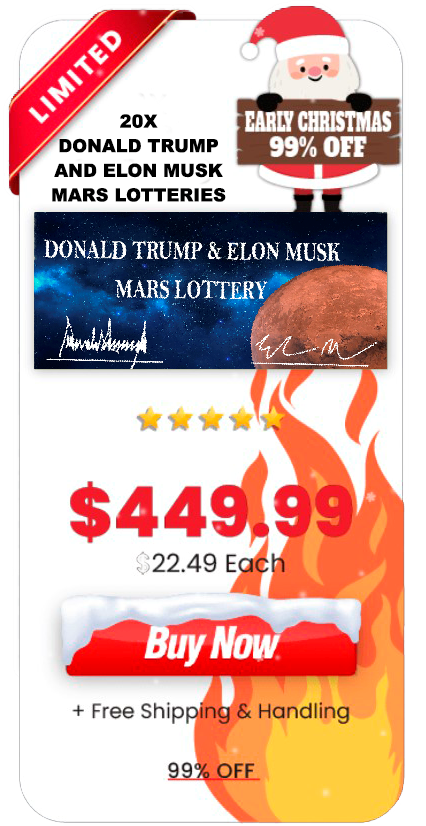
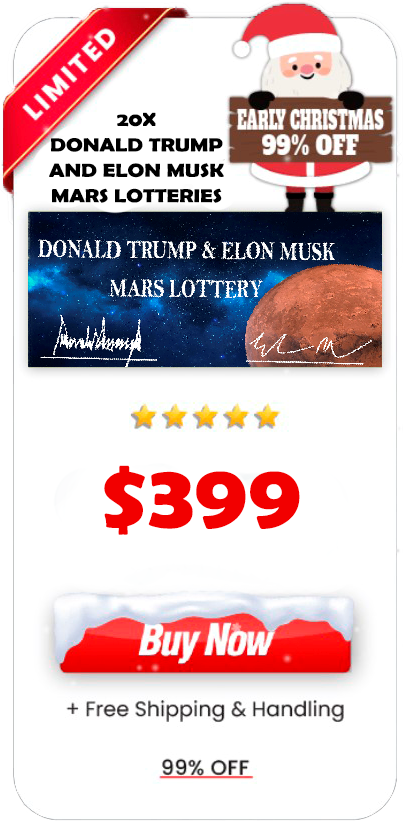
Add files via upload

diff --git a/style.css b/style.css
@@ -1,12 +1,33 @@
 .first-div{
-    background-color: rgb(103, 10, 10);
+    background-image:url(background.png) ;
+  
+    /* Full height */
+    height: 100%;
+  
+    /* Center and scale the image nicely */
+    background-position: center;
+    background-repeat: no-repeat;
+    padding-top: 20%;
+    padding-bottom: 30%;
 }
+
 .box{
     height: 100%;
  }
  * {
     box-sizing: border-box;
   }
+.child11{
+    text-align: center;
+
+    border: 1px solid transparent;
+    border-radius: 20px;
+    background-color: rgba(37, 37, 37, 0.525);
+    width: fit-content;
+    display: block;
+    margin-left: auto;
+    margin-right: auto ;
+}
 .child1{
     float: left;
     width: 50%;
@@ -20,6 +41,7 @@
     margin-top: 30px;
    
 }
+
 .flex-container:after {
     content: "";
     display: table;
@@ -37,55 +59,23 @@
     font-size: 20px;
     font-family:Cambria, Cochin, Georgia, Times, 'Times New Roman', serif;
     margin-left: 40px;
+
 }
-.fast {
-    height: 50px;	
-    overflow:hidden;
-    position: relative;
-    background:rgb(103, 10, 10);
+.parr{
     color: rgb(255, 255, 255);
-    border: 1px solid rgb(103, 10, 10);
-   }
-   .fast p {
-    position: absolute;
-    width: 100%;
-    height: 100%;
-    margin: 0;
-    line-height: 50px;
-    margin-left: 40px;
-    font-size: 30px;
-    font-weight: bolder;
-    font-family:Cambria, Cochin, Georgia, Times, 'Times New Roman', serif;
-    /* Starting position */
-    -moz-transform:translateY(50%);
-    -webkit-transform:translateY(50%);	
-    transform:translateY(50%);
-    /* Apply animation to this element */	
-    -moz-animation: fast 1s linear infinite alternate;
-    -webkit-animation: fast 1s linear infinite alternate;
-    animation: fast 1s linear infinite alternate;
-   }
-   /* Move it (define the animation) */
-   @-moz-keyframes fast {
-    0%   { -moz-transform: translateY(50%); }
-    100% { -moz-transform: translateY(-50%); }
-   }
-   @-webkit-keyframes fast {
-    0%   { -webkit-transform: translateY(50%); }
-    100% { -webkit-transform: translateY(-50%); }
-   }
-   @keyframes fast {
-    0%   { 
-    -moz-transform: translateY(50%); /* Browser bug fix */
-    -webkit-transform: translateY(50%); /* Browser bug fix */
-    transform: translateY(50%); 		
-    }
-    100% { 
-    -moz-transform: translateY(-50%); /* Browser bug fix */
-    -webkit-transform: translateY(-50%); /* Browser bug fix */
-    transform: translateY(-50%); 
-    }
-   }
+    font-size: 20px;
+    font-family:Arial, Helvetica, sans-serif;
+    font-weight: bold;
+    margin-top: 20px;
+    border: 1px solid transparent;
+   display: block;
+   margin-left: auto;
+   margin-right: auto;
+    border-radius: 20px;
+    padding-left: 10px;
+    padding-right: 10px;
+    text-align: center;
+}
 
   .cards-img{
     width: 100%;
@@ -109,26 +99,31 @@
     width: 100%;
   }
   .second-div{
-    background-color: rgb(198, 201, 198);
+    background-image:url(background2.png) ;
+  
+    /* Full height */
+    height: 100%;
+  
+    /* Center and scale the image nicely */
+    background-position: center;
+    background-repeat: no-repeat;
+ margin-top: -30px;
+ margin-bottom: -20px;
+
   }
   .second-div-child1{
     display: flex;
     justify-content: space-between;
     flex-wrap: wrap;
     flex-direction: row;
-padding: 70px;
-  }
-  .second-div-child2{
-    display: flex;
-    justify-content: space-between;
-    flex-wrap: wrap;
-    flex-direction: row;
-    padding: 70px;
+padding: 50px;
 
   }
+
 .image2{
-  width: 25%;
+  width: 23%;
   border-radius: 30px;
+  padding-left: 10px;
 
 
 }
@@ -144,20 +139,6 @@ padding: 70px;
   box-shadow: rgba(0, 0, 0, 0.25) 0px 25px 50px -12px;
  
   }
-
-
-
-
-
-.third-div{
-    background-color: rgb(103, 10, 10);
-    text-align: center;
-    padding-top: 80px;
-    padding-bottom: 80px;
-}
-.image{
-    width: 30%;
-}
 .tittle4{
     color:black;
     font-size: 50px;
@@ -178,10 +159,10 @@ padding: 70px;
     
 }
 .fourth-div{
-    background-color: rgb(198, 201, 198);
+    background-color: rgb(4, 8, 41);
 }
 .tittle4{
-    color: rgb(0, 0, 0);
+    color: rgb(255, 255, 255);
     text-align: center;
     padding-top: 50px;
     font-family: Cambria, Cochin, Georgia, Times, 'Times New Roman', serif;
@@ -192,7 +173,7 @@ padding: 70px;
     margin-left: 50px;
 }
 .card2{
-    background-color: rgb(103, 10, 10);
+    background-color: rgba(255, 255, 255, 0.192);
     width: 32%;
     border-radius:20px;
     box-shadow: rgba(35, 35, 35, 0.25) 0px 54px 55px, rgba(43, 43, 43, 0.511) 0px -12px 30px, rgba(28, 28, 28, 0.12) 0px 4px 6px, rgba(17, 17, 17, 0.17) 0px 12px 13px, rgba(28, 28, 28, 0.753) 0px -3px 5px;
@@ -354,6 +335,28 @@ width: 0%;
    .image2{
     width: 100%;
    }
+   .first-div{
+    background-image:url(phone.png) ;
+  
+    /* Full height */
+    height: 100%;
+  
+    /* Center and scale the image nicely */
+    background-position: center;
+    background-repeat: no-repeat;
+    padding-top: 20%;
+    padding-bottom: 30%;
+    background-color: rgb(5, 5, 35);
+    margin-top: -21%;
+ 
+}
+.second-div{
+ background-image: none;
+    background-color: rgb(5, 5, 35);
+
+}
+
+
    
 }
 @media only screen and (device-width: 768px) {

diff --git a/index.html b/index.html
@@ -4,54 +4,32 @@
     <meta charset="UTF-8">
     <meta http-equiv="X-UA-Compatible" content="IE=edge">
     <meta name="viewport" content="width=device-width, initial-scale=1.0">
-    <title>TRB-Check</title>
+    <title>Mars Lottery</title>
     <link rel="stylesheet" href="style.css">
     <link href="https://cdn.jsdelivr.net/npm/bootstrap@5.2.0/dist/css/bootstrap.min.css" rel="stylesheet" integrity="sha384-gH2yIJqKdNHPEq0n4Mqa/HGKIhSkIHeL5AyhkYV8i59U5AR6csBvApHHNl/vI1Bx" crossorigin="anonymous">
-    <script src="https://ajax.googleapis.com/ajax/libs/jquery/3.2.1/jquery.min.js">
-    </script>
-      <script src="https://ajax.googleapis.com/ajax/libs/jquery/3.2.1/jquery.min.js"></script>
 </head>
 <body>
     <div class="first-div">
     <div class="flex-container">
-        <div class="child1">
-            <p class="tittle">The Patriot Check</p>
-            <p class="text1">Something that every patriot is dreaming of!</p>
-            <div class="fast">
-                <p>YOU CANT'T MISS THIS</p>
-                </div>
-             <br><br>
-                    <p class="text2">The time has finally come when PRESIDENT TRUMP is<br> ready to deliver EVERYTHING HE PROMISED.<br>
-                        With President Trump, there's always a better future! The<br> WEAK leave, the STRONG stay.</p>
+        <div class="child11">
+            <p class="tittle">MISSION STATEMENT</p>
+            <p class="text1">The goal of the Mars Exploration Program is to explore Mars and to provide a continuous flow <br>of scientific information and discovery through a carefully selected series of robotic<br> orbiters, landers and mobile laboratories interconnected by a high-bandwidth Mars/Earth<br> communications network.</p>
         </div>
-        <div class="child2">
-          <img class="cards-img" src="cards.png" alt="">
-          <p class="text3">The Official TRB Check.<br>
-            Don't wait, take advantage of it NOW!</p>
-          </div>
+    
         </div>
         </div>
         <div class="second-div">
           <div class="second-div-child1">
+          <img class="image2" src="1x.png" alt="">
+          <img class="image2" src="5x.png" alt="">
           <img class="image2" src="20x.png" alt="">
-          <img class="image2" src="50X.png" alt="">
-          <img class="image2" src="10X.png" alt="">
-          </div>
-          <div class="second-div-child2">
-          <img class="image2" src="3X.png" alt="">
-          <img class="image2" src="5X.png" alt="">
-          <img class="image2" src="1X.png" alt="">
+          <img class="image2" src="50x.png" alt="">
+          <br><br>
+          <p class="parr">>It's a one-of-a-kind piece of memorabilia, one not just for collectors but for all Americans!<br>
+            >Excellent gift items... any real patriot would love this patriotic item!</p>
           </div>
         </div>
-        <div class="third-div">
-            <img class="image" src="trumpp.jpg" alt="">
-            <p class="tittle4">GET YOUR<br> EXCLUSIVE<br> TRUMP CHECK</p>
-            <p class="par1">This check is sold exclusively here and can't be<br> bought anywhere else Now is the time to get<br> your hands on a very limited edition, TRB<br> CHECK.</p>
-            <p class="par">- It's a one-of-a-kind piece of memorabilia, one not just<br> for collectors but for all Americans!</p><hr>
-            <p class="par">- 74 million Americans love Trump. That's why this<br> has become the number one best selling check</p><hr>
-            <p class="par">RISK FREE - Full and complete 60 Day Back<br> Guarantee. If you are unhappy, you can request a full<br> refund in the first 60 days.</p><hr>
-            <p class="par">Excellent gift items... any real patriot would love this<br> check!</p>
-        </div>
+     
         <div class="fourth-div">
             <div class="tittle4">TESTIMONIALS</div>
       
@@ -62,7 +40,7 @@
                             <div class="child1">
                               <p class="name">Jack Centeno</p><hr>
                                <p class="time">3 days ago</p>
-                               <p class="about">The Trump Check has been one of my favourite purchases this year! Highly recommended!</p>
+                               <p class="about">The Mars Lottery has been one of my favourite purchases this year! Highly recommended!</p>
                             </div>
                             <div class="child2">
                           <img class="man-image" src="man.jpg" alt="">
@@ -77,7 +55,7 @@
                             <div class="child1">
                               <p class="name">Bessie A. Estil</p><hr>
                                <p class="time">5 days ago</p>
-                               <p class="about">I've always been a patriot, and with my TRB check, I can show my patriotism to the USA.</p>
+                               <p class="about">I've always been a patriot, and with my Mars Lottery, I can show my patriotism to the USA.</p>
                             </div>
                             <div class="child2">
                           <img class="man-image" src="woman2.jpg" alt="">
